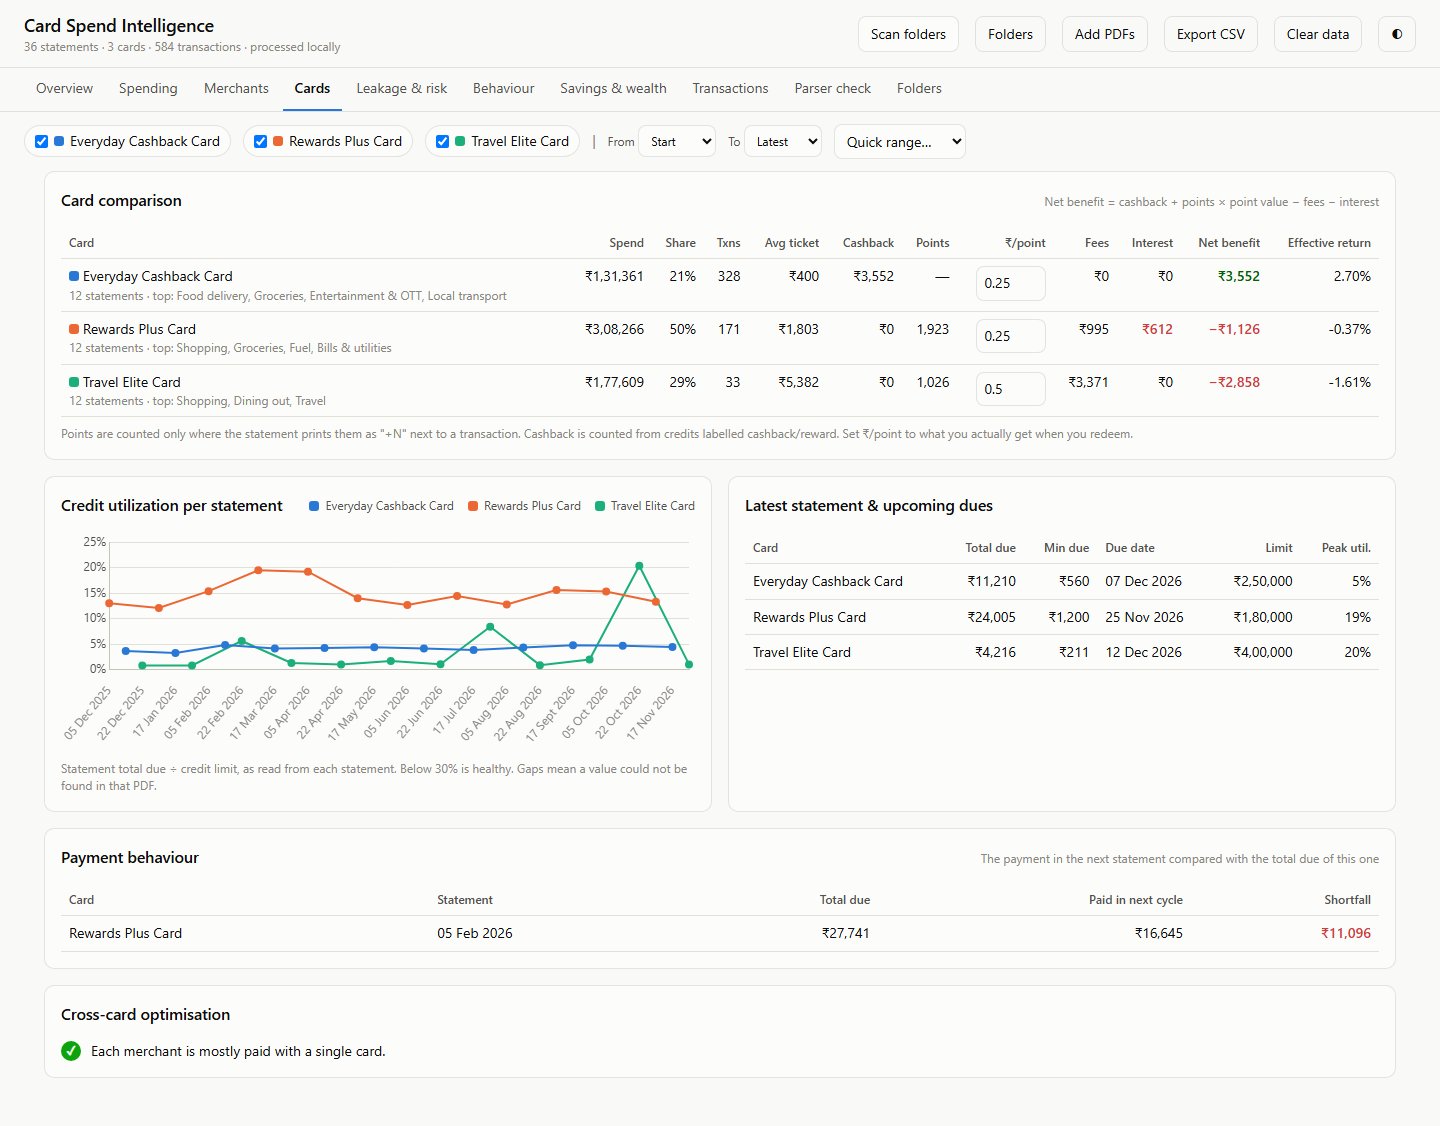
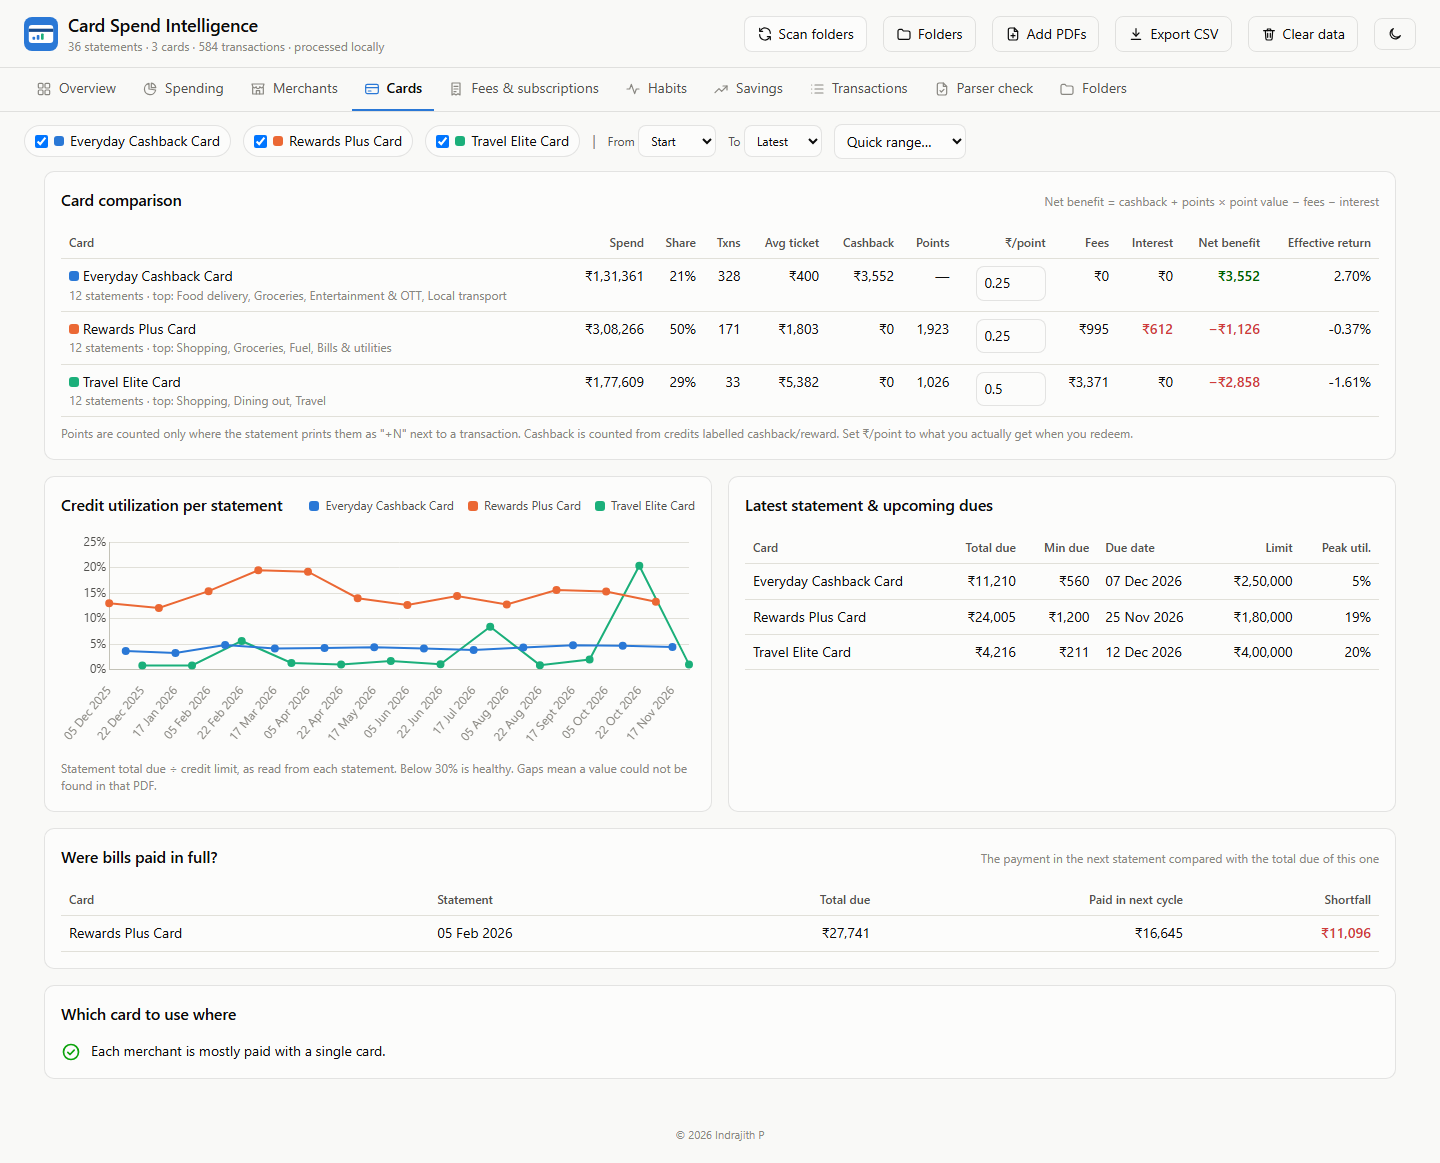
Update README and screenshots for the new look

diff --git a/README.md b/README.md
@@ -24,15 +24,15 @@ All screenshots use made up demo data.
 
 ![Cards](docs/screenshots/cards.png)
 
-**Leakage and risk.** Interest, late fees, annual fees, GST on those fees, forex markup and fuel surcharge, each shown as what you paid and what it costs you per year. Below that, recurring payments and subscriptions, possible duplicate charges and transactions that look unusual for their category.
+**Fees and subscriptions.** Interest, late fees, annual fees, GST on those fees, forex markup and fuel surcharge, each shown as what you paid and what it costs you per year. Below that, recurring payments and subscriptions, possible duplicate charges and transactions that look unusual for their category.
 
-![Leakage and risk](docs/screenshots/leakage.png)
+![Fees and subscriptions](docs/screenshots/leakage.png)
 
-**Behaviour.** A few simple signals: how much goes to food delivery, how often you make small purchases, weekend and late night spending, whether spending is rising, and which categories grew the most.
+**Habits.** A few simple signals: how much goes to food delivery, how often you make small purchases, weekend and late night spending, whether spending is rising, and which categories grew the most.
 
-![Behaviour](docs/screenshots/behaviour.png)
+![Habits](docs/screenshots/behaviour.png)
 
-**Savings and wealth.** Pick how much you'd cut from each discretionary category and it shows the monthly saving and what that would grow to if invested. Add your income to see what share of it goes on cards. There's also a 12 month plan based on what it found.
+**Savings.** Pick how much you'd cut from each discretionary category and it shows the monthly saving and what that would grow to if invested. Add your income to see what share of it goes on cards. There's also a 12 month plan based on what it found.
 
 ![Savings](docs/screenshots/savings.png)
 
@@ -115,11 +115,13 @@ Categories are plain regex rules in `app/js/categorize.js`, tuned for Indian mer
 ```
 app/
   index.html          the page
+  favicon.svg         app icon
   serve.py            local server, SQLite storage and folder scanning
   js/parser.js        PDF unlocking and transaction extraction
   js/categorize.js    merchant clean up and category rules
   js/analysis.js      all the numbers
   js/app.js           dashboard UI
+  js/icons.js         the icon set
   css/styles.css      styles, light and dark
   vendor/             pdf.js 3.11.174 and Chart.js 4.4.1
 docs/screenshots/     images used in this README
